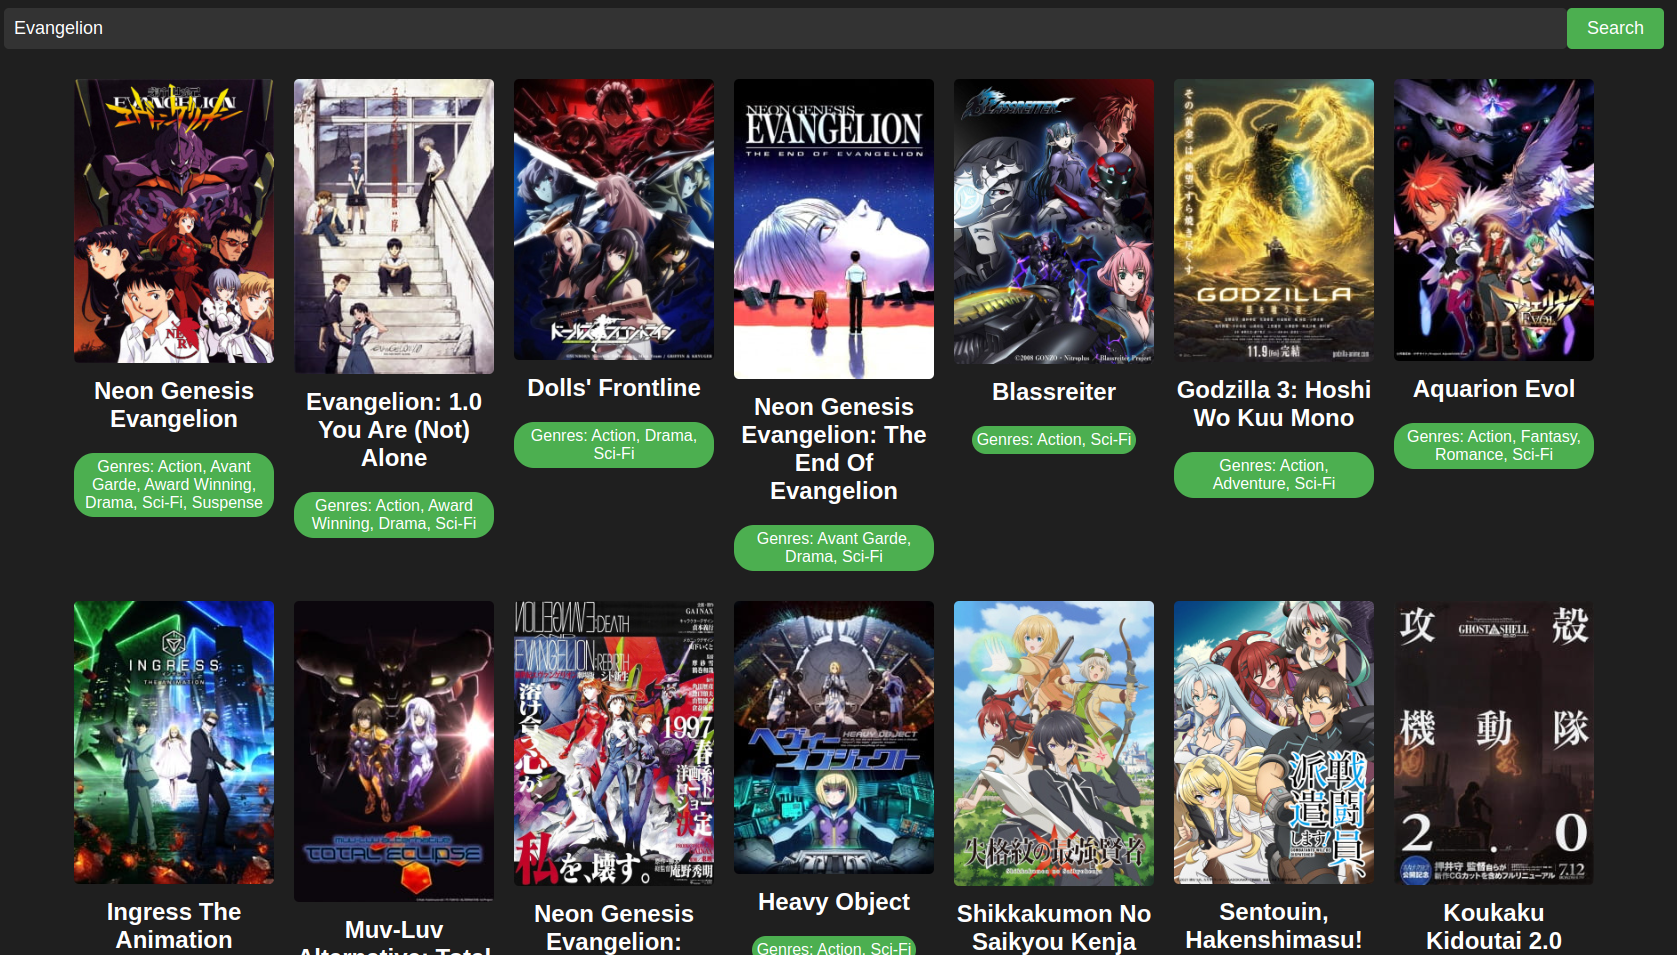
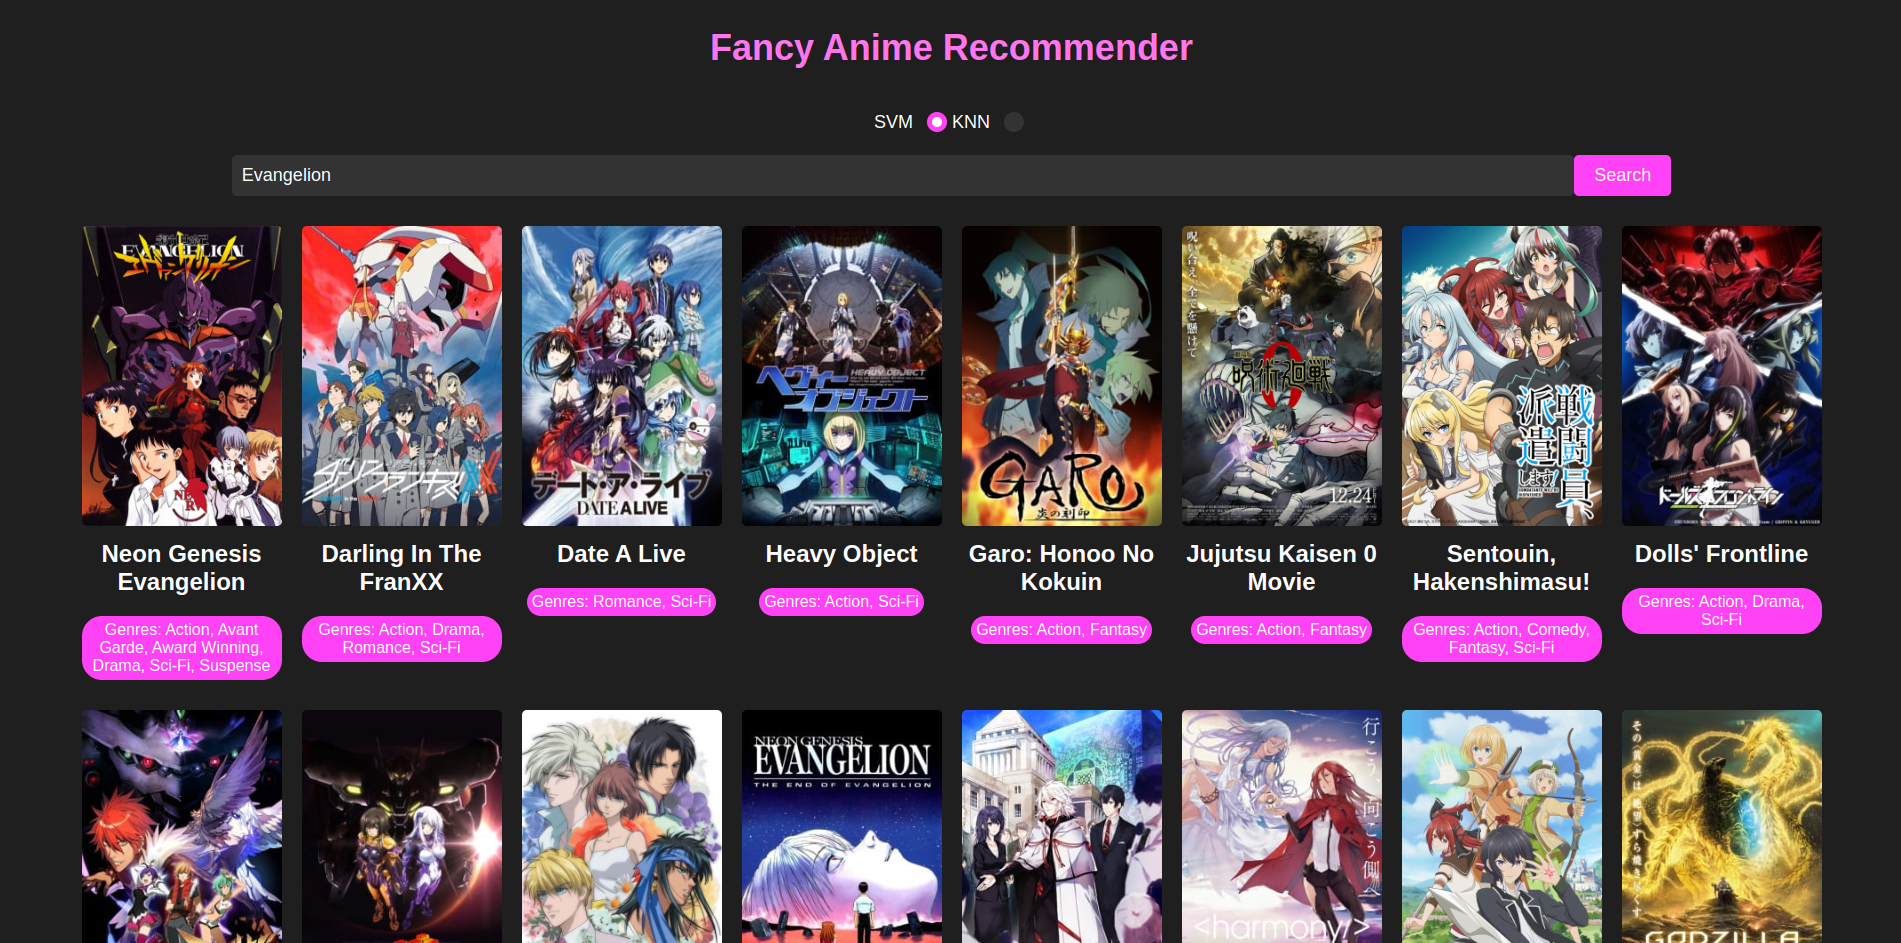
update readme with new ui

diff --git a/README.md b/README.md
@@ -17,7 +17,7 @@ We use a BERT model to perform name matching between the searched anime and the 
 
 This is a very simple frontend written by ChatGPT just to interact better with the API.
 
-![image](https://user-images.githubusercontent.com/56324869/233866039-1a8fc973-dc18-4eda-96c7-8ad50523f70a.png)
+![image](docs/images/simple_ui_example.png)
 
 ## We have a dedicated server and frontend!
 
